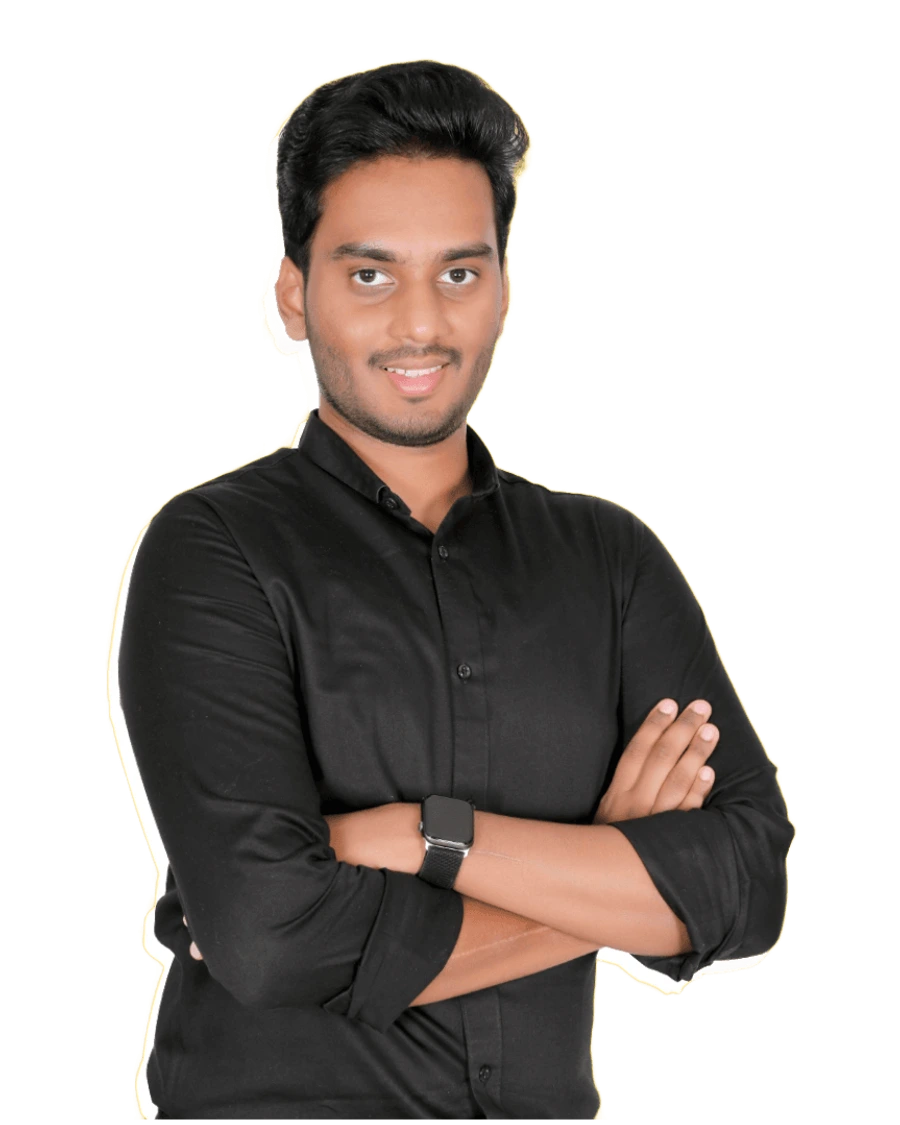
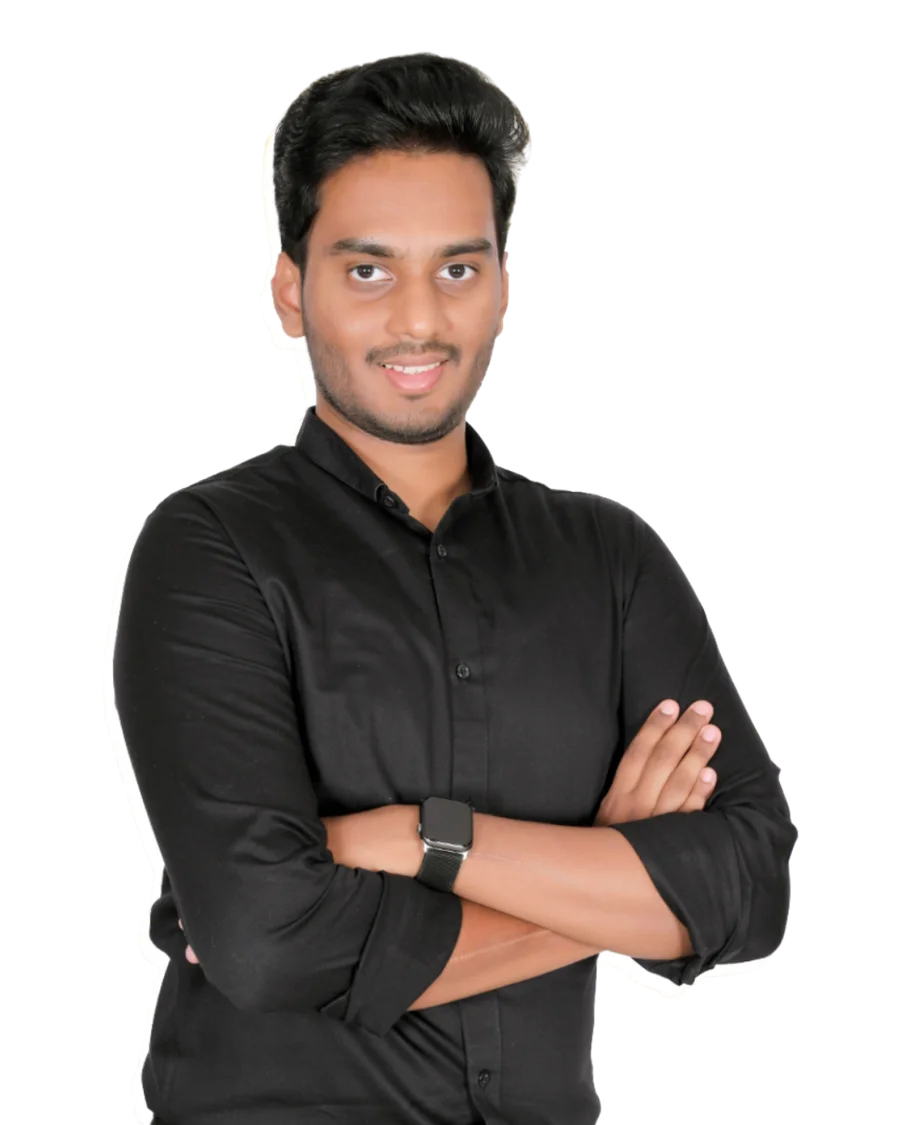
feat: refresh team headshots and regenerate cutouts
Swaps team photos from raw jpeg/jpg exports to processed png
originals and regenerates the transparent webp cutouts to match.

diff --git a/lib/content.ts b/lib/content.ts
@@ -41,7 +41,7 @@ export const members: readonly Member[] = [
       { label: "Email", href: "mailto:akhilmn18work@gmail.com" },
       { label: "WhatsApp", href: "https://wa.me/917977440681" },
     ],
-    photo: "/team/akhil-menon.jpeg",
+    photo: "/team/akhil-menon.png",
     cutout: "/team/cutouts/akhil-menon.webp",
   },
   {
@@ -71,7 +71,7 @@ export const members: readonly Member[] = [
       { label: "Email", href: "mailto:akshat.dhaundiyal2027@mastersunion.org" },
       { label: "WhatsApp", href: "https://wa.me/919560615045" },
     ],
-    photo: "/team/akshat.jpeg",
+    photo: "/team/akshat.png",
     cutout: "/team/cutouts/akshat.webp",
   },
   {
@@ -88,7 +88,7 @@ export const members: readonly Member[] = [
       { label: "LinkedIn", href: "https://www.linkedin.com/in/saffa523/" },
       { label: "WhatsApp", href: "https://wa.me/919404083985" },
     ],
-    photo: "/team/saffa.jpeg",
+    photo: "/team/saffa.png",
     cutout: "/team/cutouts/saffa.webp",
   },
   {
@@ -104,7 +104,7 @@ export const members: readonly Member[] = [
       { label: "WhatsApp", href: "https://wa.me/918373944571" },
     ],
     location: "Gurugram, India",
-    photo: "/team/muskan-sharma.jpg",
+    photo: "/team/muskan-sharma.png",
     cutout: "/team/cutouts/muskan-sharma.webp",
   },
   {
@@ -114,7 +114,7 @@ export const members: readonly Member[] = [
     bio: "I’m a Product Manager who gets unreasonably excited about problems. From building products from 0→1 to now building communities, I’m happiest somewhere between “what if?” and “let’s ship it.”",
     superpower: "Turning ambiguity into action. ⚡",
     links: [{ label: "WhatsApp", href: "https://wa.me/917406521184" }],
-    photo: "/team/supriya.jpg",
+    photo: "/team/supriya.png",
     cutout: "/team/cutouts/supriya-v2.webp",
   },
   {
